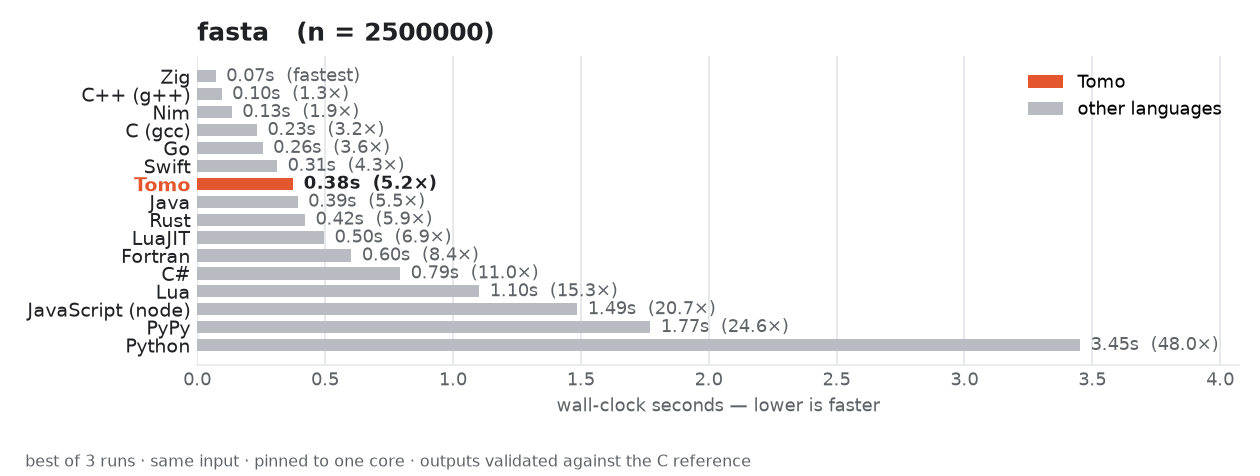
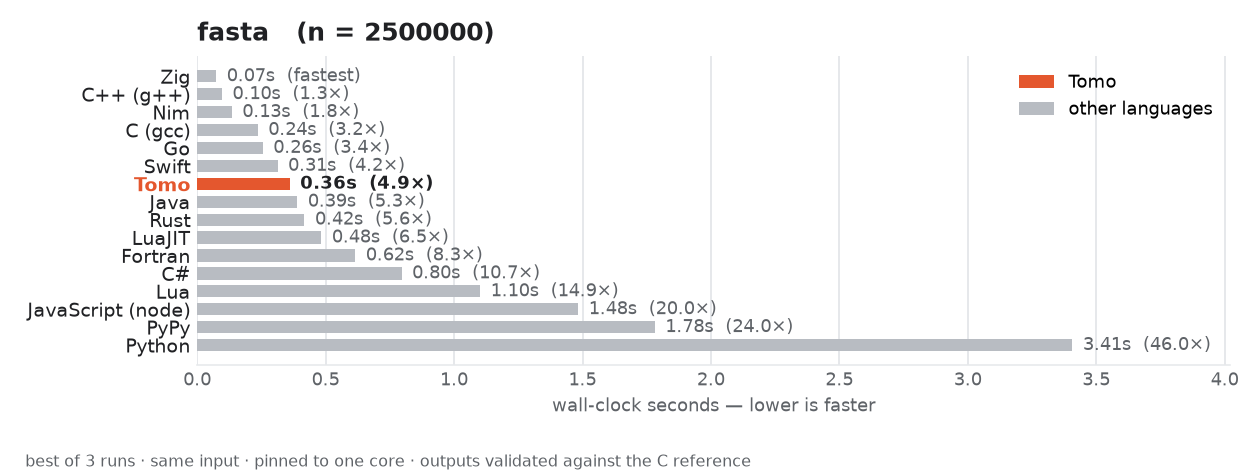
Refresh benchmark graphs; fix overview title gap
Fresh full run of all nine benchmarks (best of 3, pinned to one core, every
output validated) with the current compiler. The accumulated list/comprehension
work shows up in the numbers — notably fasta (0.75s -> 0.36s, its buffer now a
single zeroed allocation), plus n-body, fannkuch, and reverse-complement.

plot.py: the combined overview reserved the title/footer bands as fixed
*fractions* of the figure height, so with nine tall panels the title floated
far above the first subplot. Reserve them as fixed heights (inches) converted
to fractions instead, so the spacing is constant regardless of panel count.

README intro updated to the current figures.

diff --git a/benchmarks/plot.py b/benchmarks/plot.py
@@ -200,7 +200,8 @@ def main():
 
     benches = list(data.items())
     n = len(benches)
-    fig, axes = plt.subplots(n, 1, figsize=(9, 1.0 + 3.2 * n),
+    fig_h = 1.0 + 3.2 * n
+    fig, axes = plt.subplots(n, 1, figsize=(9, fig_h),
                              squeeze=False)
     fig.patch.set_facecolor("white")
     for ax, (bname, block) in zip(axes[:, 0], benches):
@@ -215,12 +216,18 @@ def main():
     ]
     axes[0, 0].legend(handles=legend, loc="upper right", frameon=False,
                       fontsize=9, borderaxespad=0.6)
+    # Reserve title/footer bands as *fixed* heights (in inches, converted to
+    # figure fractions) rather than fixed fractions -- otherwise a taller
+    # figure (more benchmarks) opens a huge gap under the title.
+    top = 1.0 - 0.55 / fig_h
+    bottom = 0.35 / fig_h
     fig.suptitle("Tomo vs. other languages — Computer Language Benchmarks Game",
-                 x=0.02, ha="left", fontsize=14, fontweight="bold", color=INK)
-    fig.text(0.02, 0.008,
+                 x=0.02, y=1.0 - 0.28 / fig_h, ha="left", va="top",
+                 fontsize=14, fontweight="bold", color=INK)
+    fig.text(0.02, 0.10 / fig_h,
              "best of 3 runs · same input · pinned to one core · outputs validated against the C reference",
              ha="left", fontsize=8, color=MUTED)
-    fig.tight_layout(rect=[0, 0.03, 1, 0.93])
+    fig.tight_layout(rect=[0, bottom, 1, top])
 
     svg = os.path.join(HERE, out + ".svg")
     png = os.path.join(HERE, out + ".png")

diff --git a/benchmarks/README.md b/benchmarks/README.md
@@ -21,26 +21,25 @@ With the field now up to ~17 languages across all nine of the CLBG's
 library-free benchmarks, the useful summary is that **Tomo sits inside the
 compiled-language cluster and beats every scripting language on every single
 benchmark, with no exceptions**. On the tight compute loops it lands in the
-middle of that cluster: **fannkuch-redux** puts it at 0.35s, within 2.2× of the
-fastest and jostling with Java, Fortran, and C; **n-body** at 0.56s is ~1.9×
-the leader (Rust), just ahead of Go and Java. On the hash-table-heavy
-**k-nucleotide** it takes 3rd at 0.28s — behind only C and C++, and ahead of
+middle of that cluster: **fannkuch-redux** puts it at 0.17s, within 1.8× of the
+fastest and jostling with C++, Fortran, and C; **n-body** at 0.27s is ~1.9×
+the leaders (Zig/Rust), just ahead of C#, Go, and Java. On the hash-table-heavy
+**k-nucleotide** it takes 3rd at 0.24s — behind only C and C++, and ahead of
 Go, LuaJIT, Java, Rust, and every scripting language. **binary-trees** (an
-allocation/GC stress test) has it at 0.28s, mid-pack and ahead of Go, Odin,
-and every scripting language. **fasta** is Tomo's softest core benchmark but
-not an outlier — at 0.75s it's ~10× C (C's SIMD-friendly byte tables set an
-unusually high bar here), still ahead of Java, C#, Rust, and every scripting
-language.
+allocation/GC stress test) has it at 0.29s, mid-pack and ahead of Go, Odin,
+and every scripting language. **fasta** at 0.36s is ~4.9× C (C's SIMD-friendly
+byte tables set a high bar here), still ahead of Java, Rust, C#, LuaJIT,
+Fortran, and every scripting language.
 
 Of the four newer benchmarks, **mandelbrot** is a standout: at 0.70s Tomo
 *beats* the (multithreaded, core-pinned) C and Go entries outright, trailing
-only Rust, C++, and Java. **reverse-complement** at 0.24s (2.3× C) is ahead of
+only Rust, C++, and Java. **reverse-complement** at 0.23s (2.3× C) is ahead of
 Python, Java, LuaJIT, JavaScript, C++, PyPy, and Lua, and closing in on
-C#/Swift (0.13s). **spectral-norm** at 1.16s is ~1.9× C, ahead of Go, C#,
+C#/Swift (0.13s). **spectral-norm** at 1.15s is ~1.9× C, ahead of Go, C#,
 Java, and every scripting language. **pidigits** — a pure GMP bignum stress
-test — is Tomo's weakest relative showing at ~4.8× C, but still 4th of 9,
+test — is Tomo's weakest relative showing at ~4.7× C, but still 4th of 9,
 comfortably ahead of Python, PyPy, Java, C#, and JavaScript. Several runtime
-improvements came out of chasing these numbers down — see below.
+and compiler improvements came out of chasing these numbers down — see below.
 
 The top of each compute chart is crowded with fast natives — Zig, Nim,
 Fortran, and Rust routinely lead — but no garbage-collected, memory-safe
